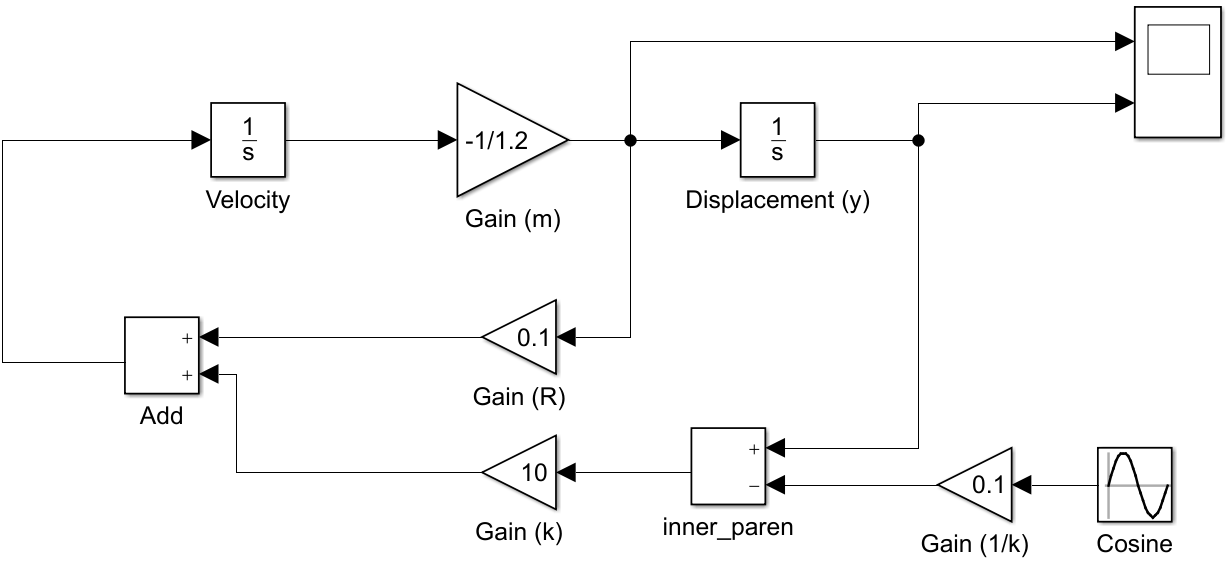
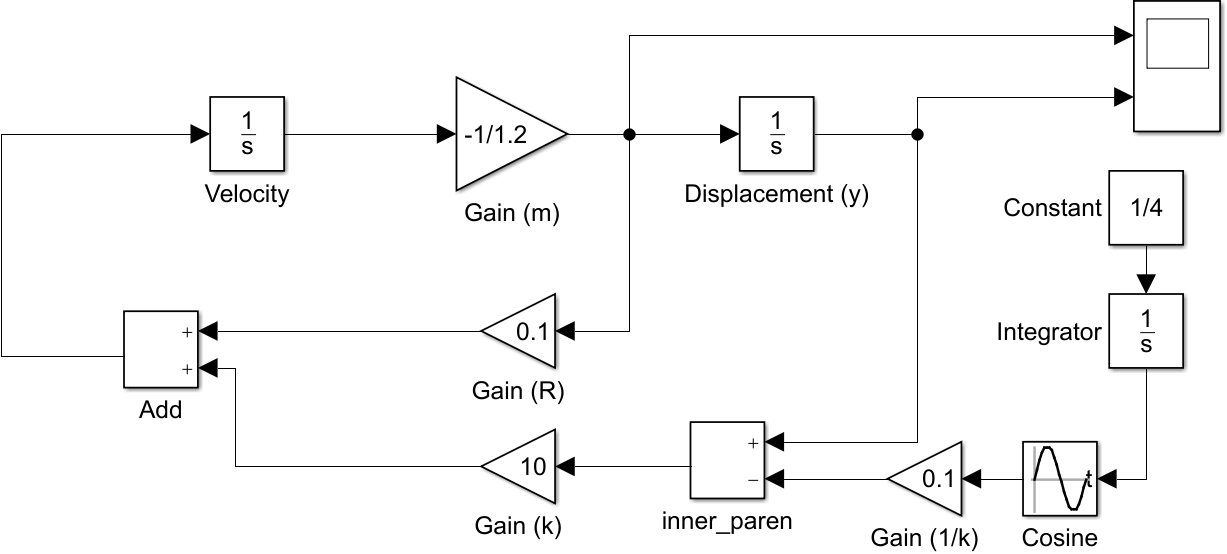
[BMM] Set 1, P5: fix typo and misunderstanding

diff --git a/hw01-BMM/document.tex b/hw01-BMM/document.tex
@@ -157,16 +157,22 @@ of the following new function blocks:
     %
 \begin{itemize}
     \item \enquote{inner\_paren}, which represents the result of $(y(t)
-    - \frac{1}{k}u(t))$.  This function block has the parameter
+    - \frac{1}{k}u(\frac{t}{4}))$.  This function block has the parameter
     \enquote{\texttt{+-}} for correct signs.
         %
     \item \enquote{Gain (1/k)}, which represents the result of
-    $\frac{1}{k}u(t))$.  This function block has the parameter $0.1$,
+    $\frac{1}{k}u(\frac{t}{4}))$.  This function block has the parameter $0.1$,
     as that's the value of $\frac{1}{k}$.
         %
     \item \enquote{Cosine}, which is actually a \enquote{Sine
     Wave}-block, with the parameters amplitude=1,
-    frequency=$0.5*(2\pi)$, and phase=$\pi/2$.
+    frequency=$0.5 \cdot (2\pi)$, phase=$\pi/2$,
+    and custom time source enabled.
+        %
+    \item \enquote{Contant} (\texttt{1/4}) and \enquote{Integrator}
+    (\texttt{x\_0=0}) to compute $\frac{t}{4}$.  Obviously, one should
+    instead use Cosine with a period of 8 seconds ($2 \cdot 4$), but
+    we'd like to stay close to the literal definition.
 \end{itemize}
 
 
